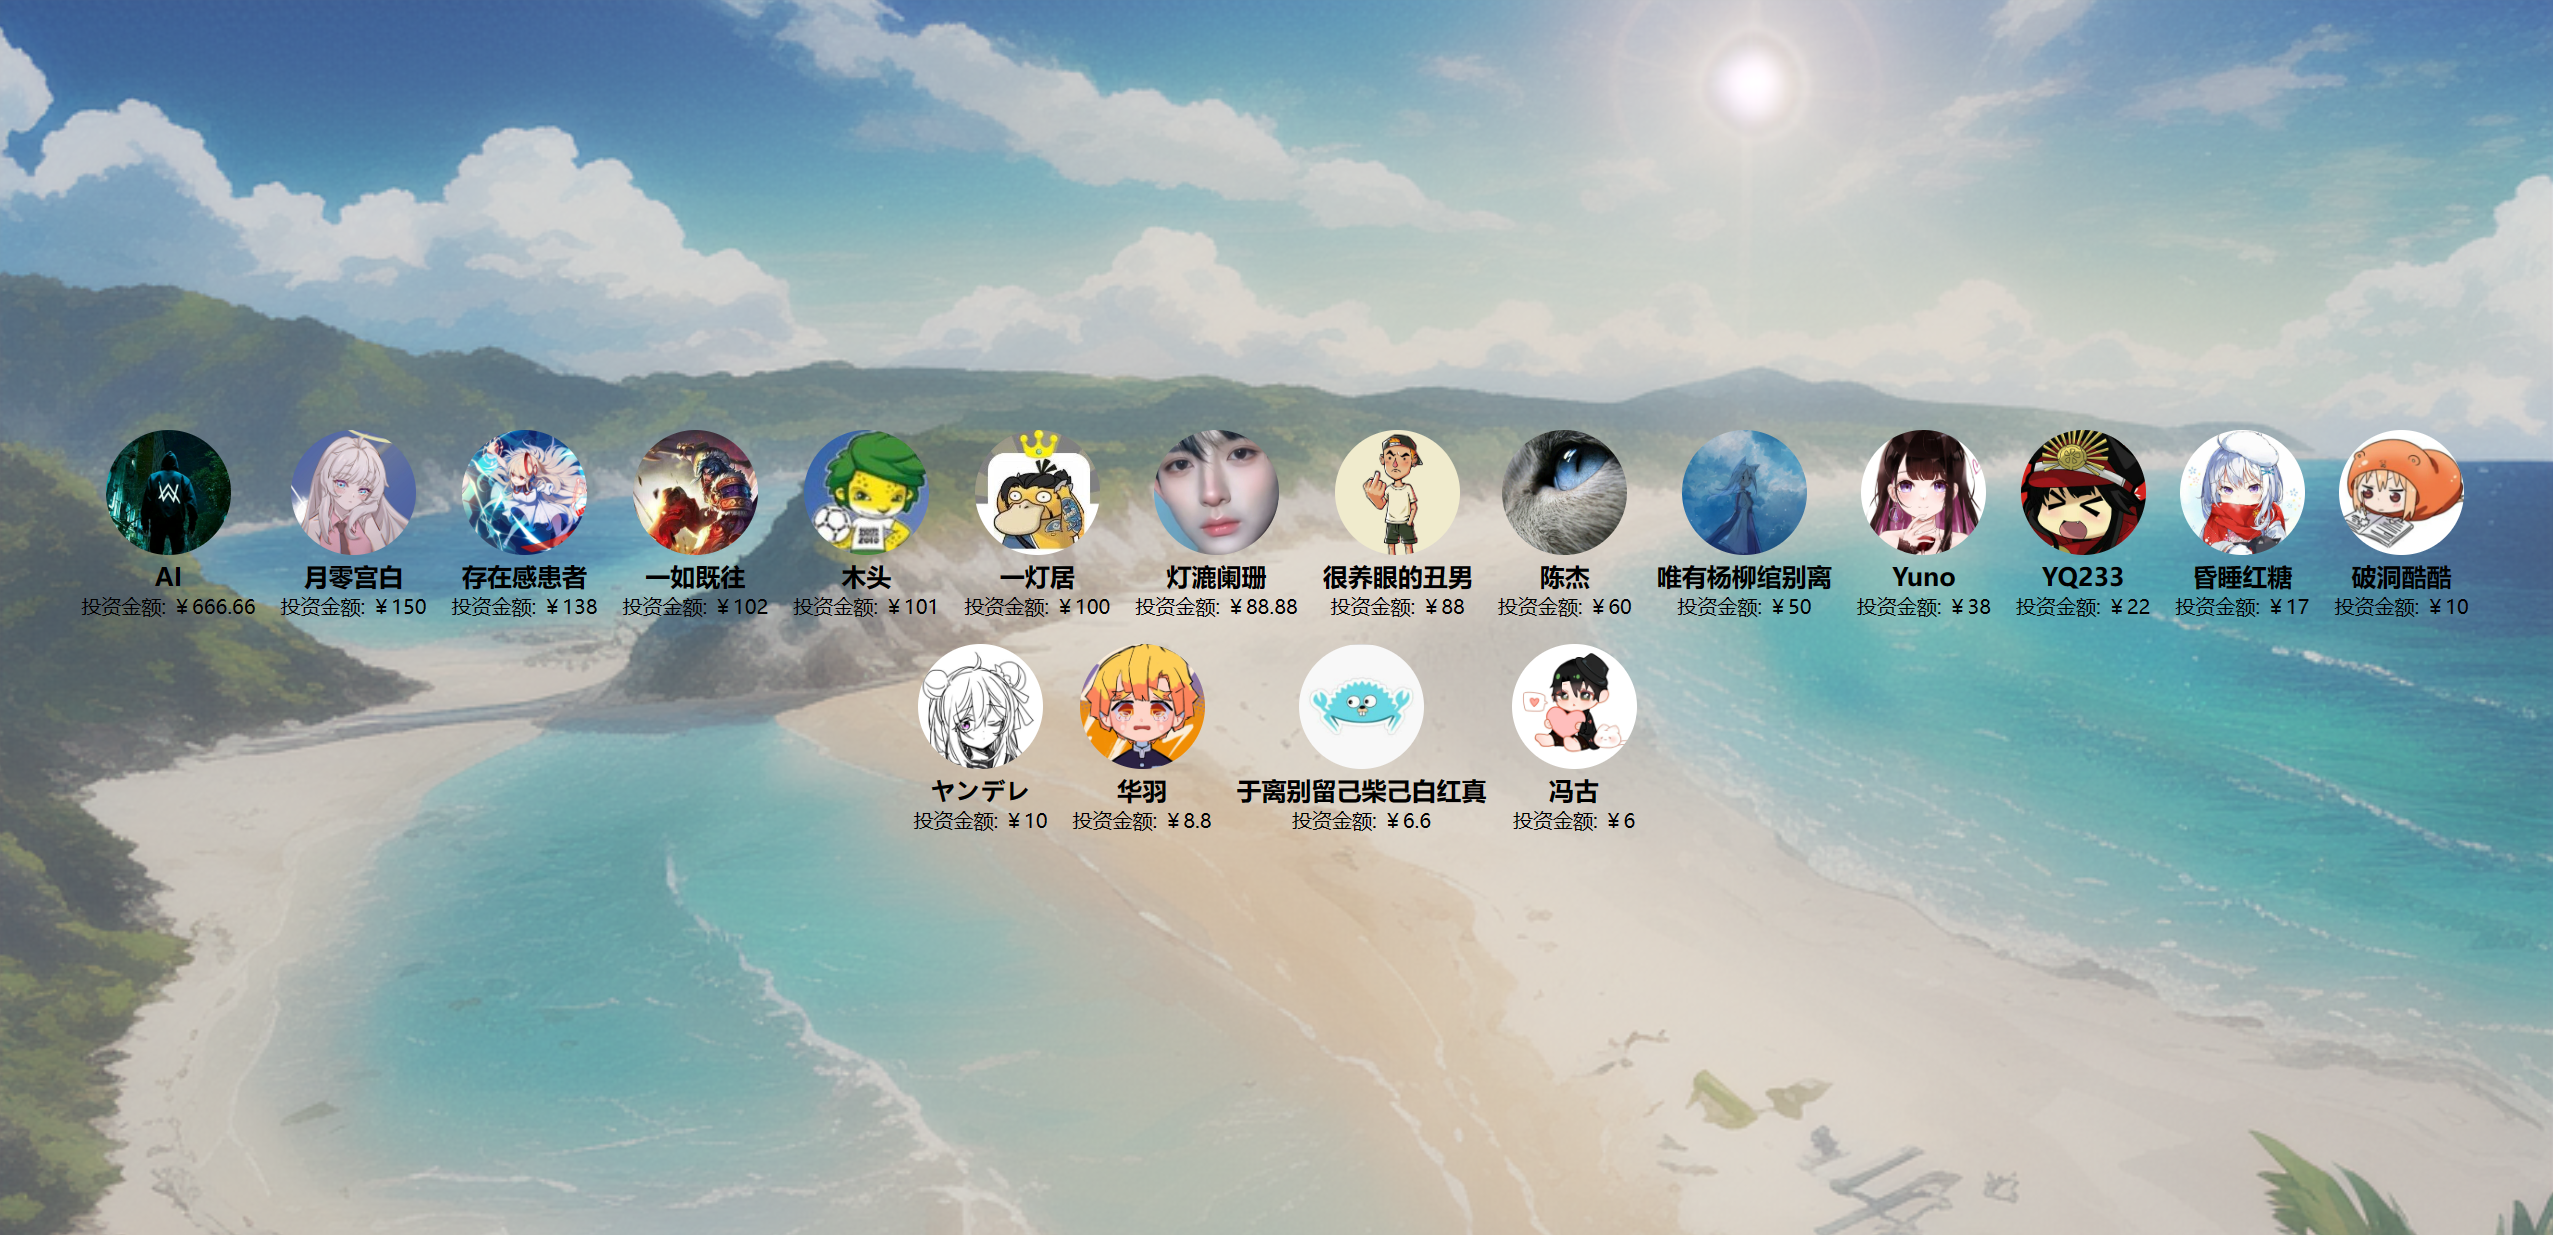
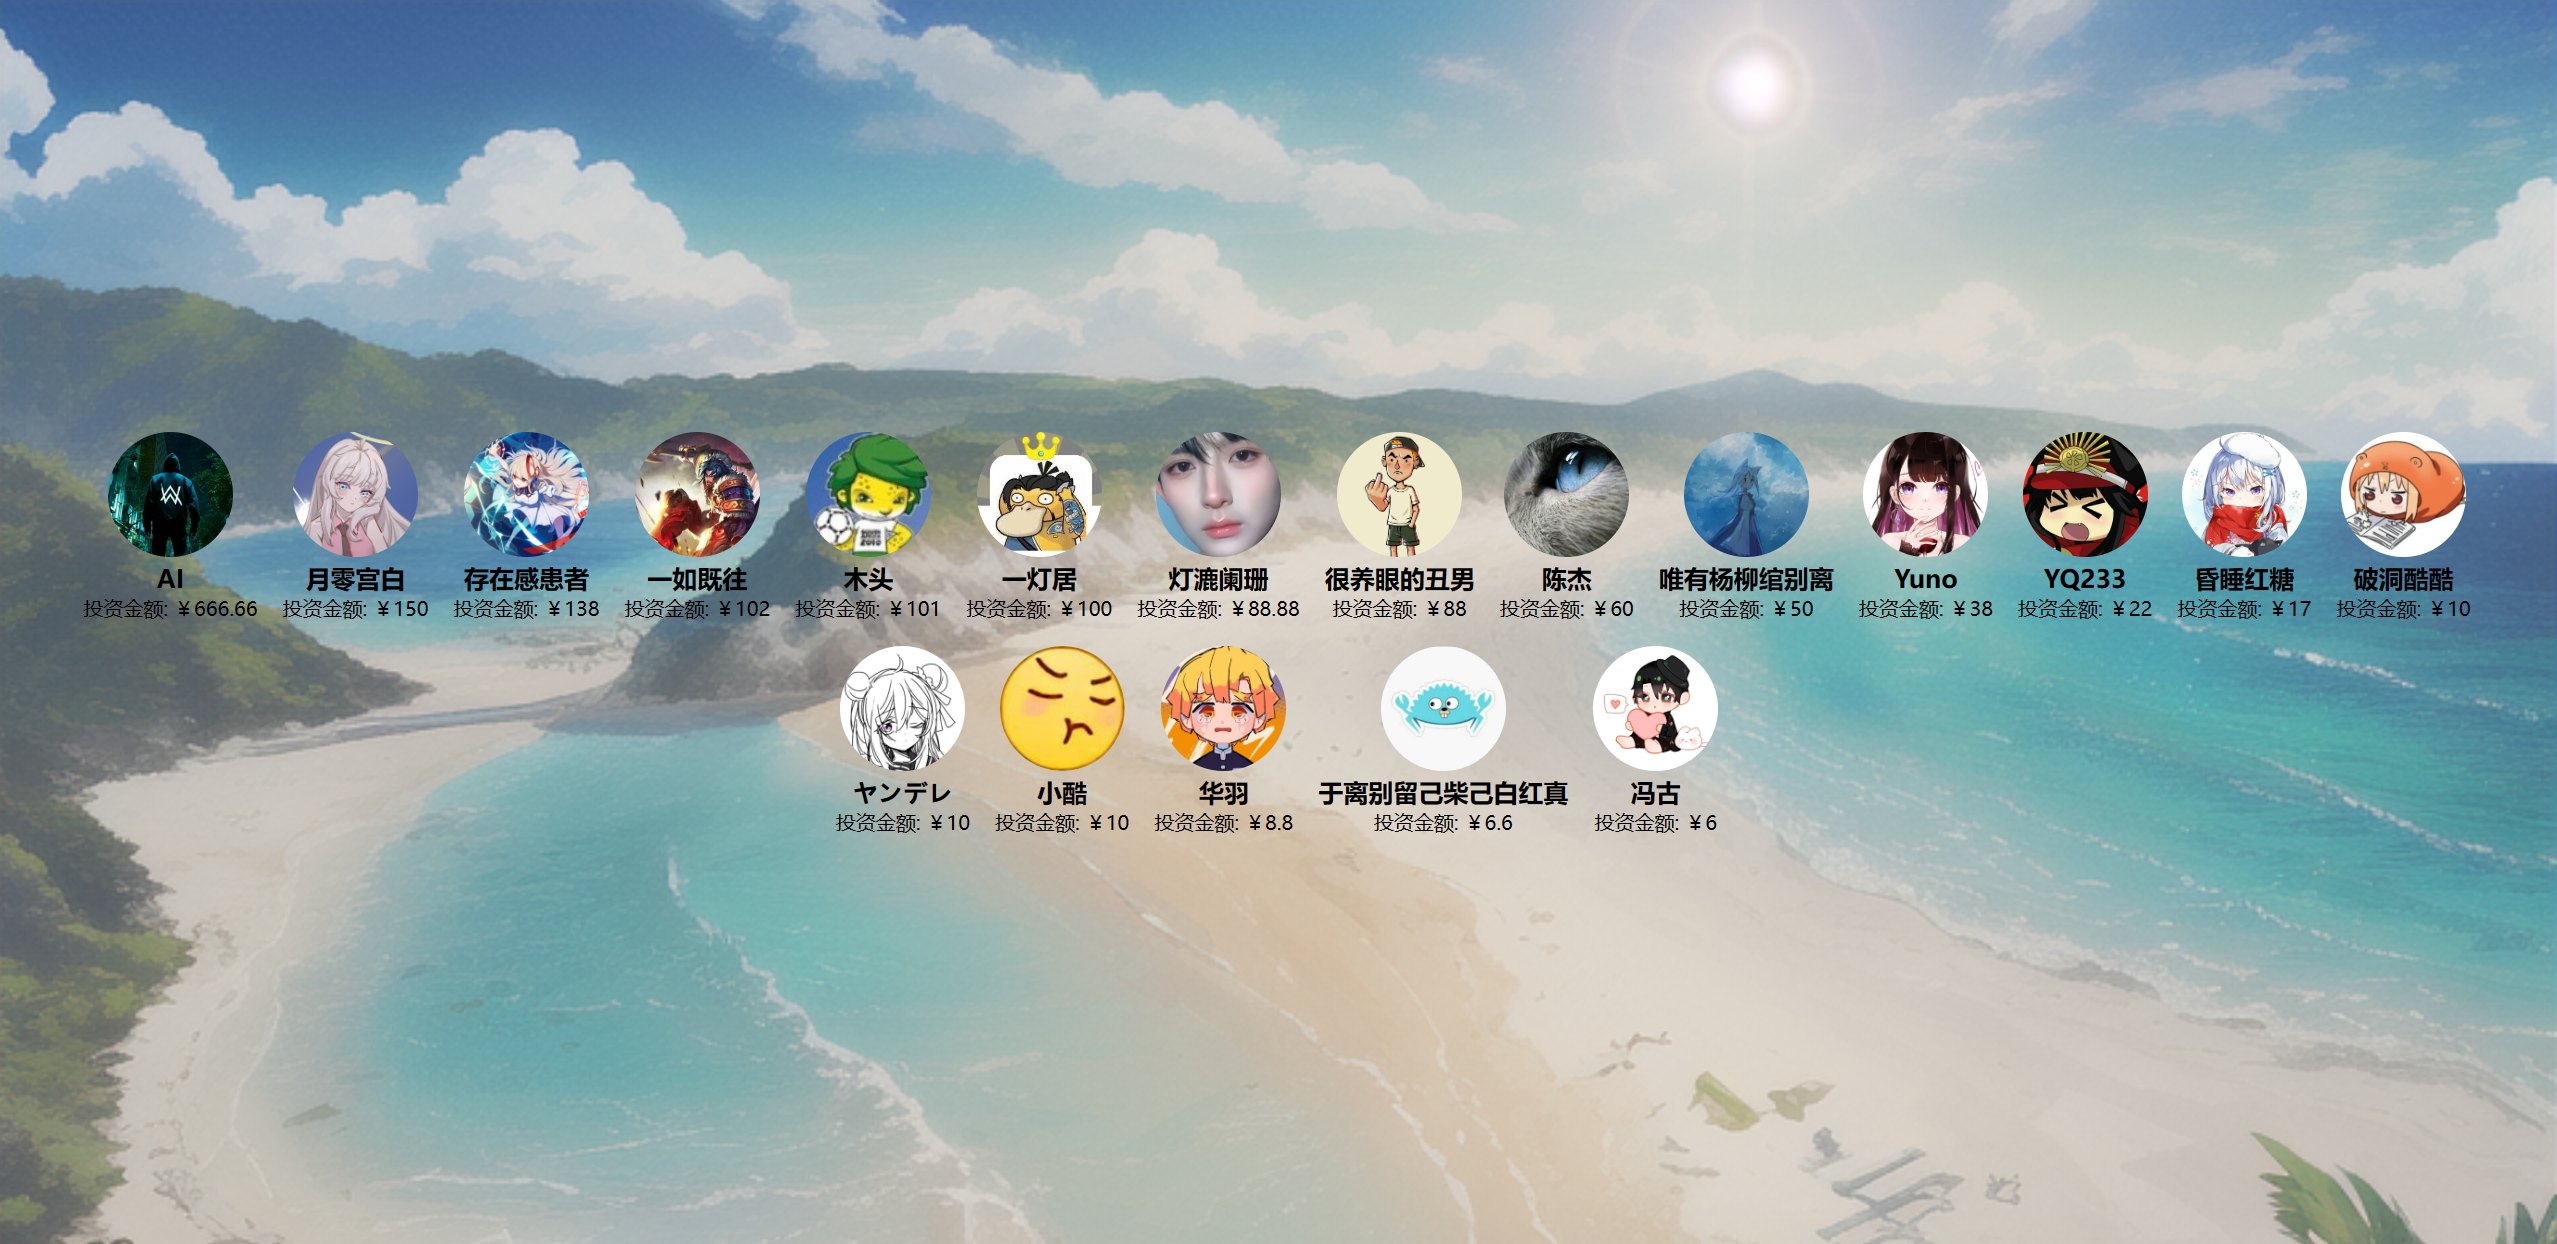
更新投资人信息

diff --git a/docs/投资人/index.html b/docs/投资人/index.html
@@ -127,6 +127,11 @@
             amount: "￥10"
         },
         {
+            name: "小酷",
+            avatar: "https://images.cnblogs.com/cnblogs_com/ikaros-521/2328032/o_230723033013_QQ%E5%9B%BE%E7%89%8720230723112710.png",
+            amount: "￥10"
+        },
+        {
             name: "华羽",
             avatar: "https://images.cnblogs.com/cnblogs_com/ikaros-521/2328032/o_230722163359_QQ%E5%9B%BE%E7%89%8720230722234807.jpg",
             amount: "￥8.8"
